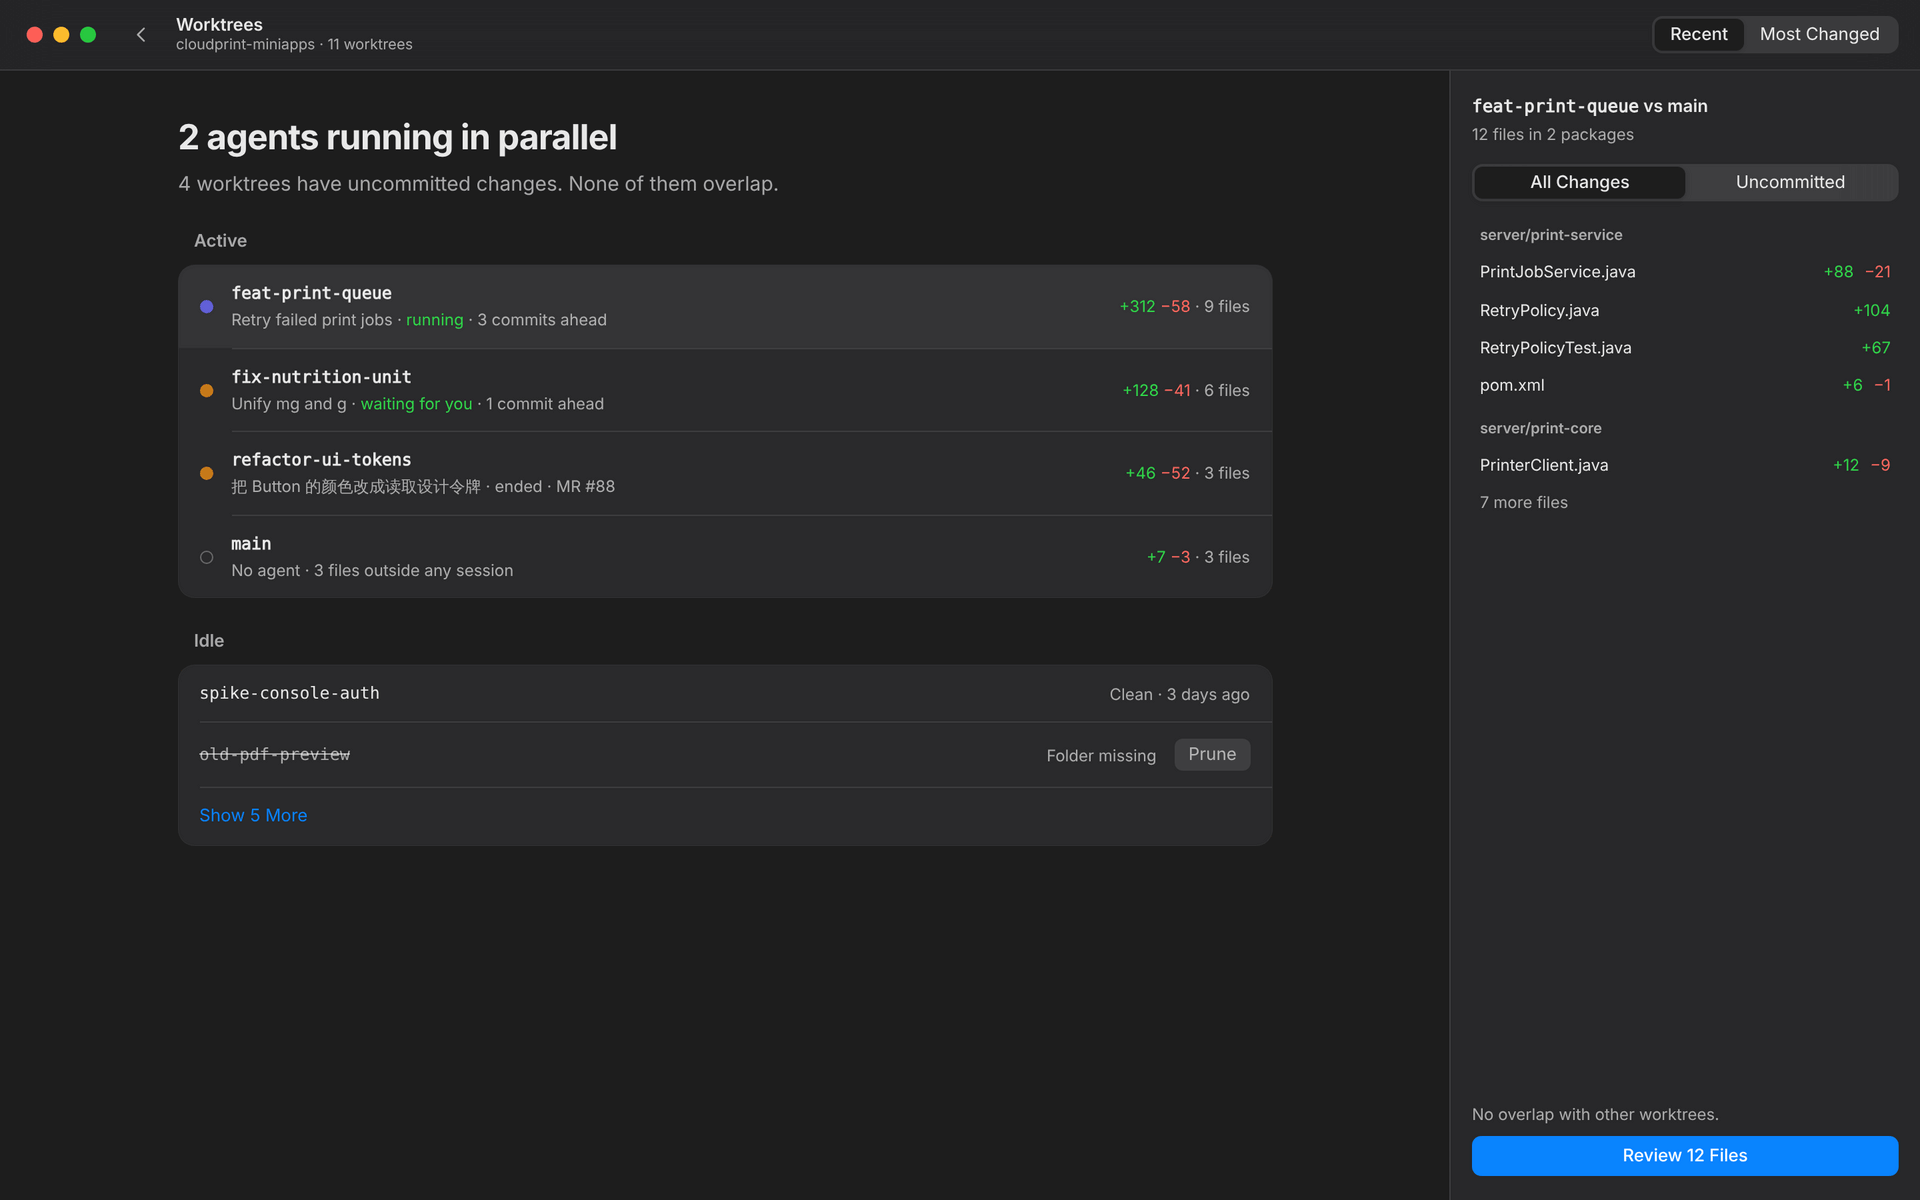
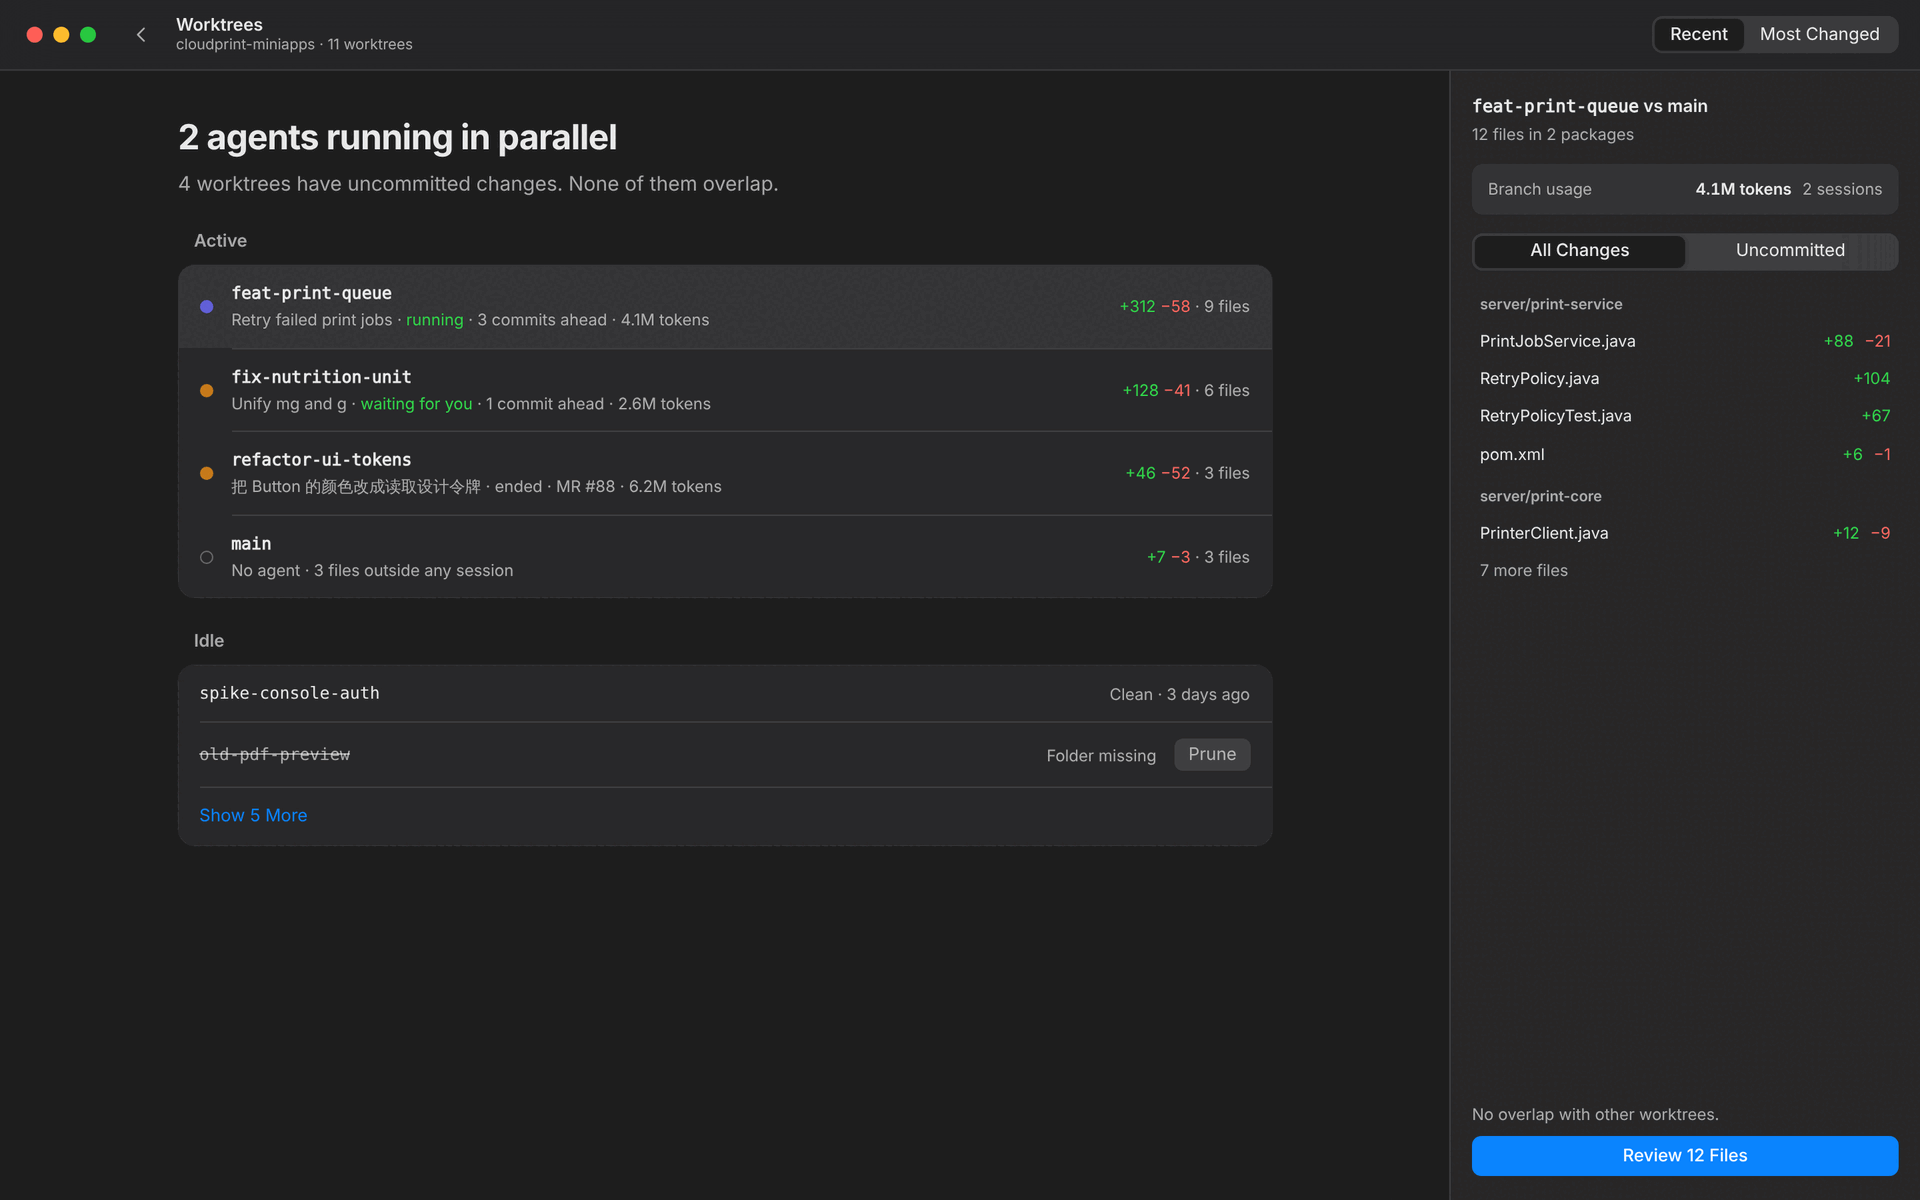
docs: refresh design screenshots and screen spec for Analyze, MR usage and no cost
- README screenshots re-rendered from the updated design canvas, light and dark.
- Interaction spec screen table: brief with Analyze states and branch usage,
  per-branch tokens in Worktrees, tokens only in Usage, new 06 Merge Request board.
- README (en / zh-CN): Analyze, branch tokens in the worktree inspector,
  writing vs review split for MRs.

Claude-Session: https://claude.ai/code/session_01HuiwZwpLFGsFJpVg1pmaN6

diff --git a/README.md b/README.md
@@ -31,12 +31,13 @@ Lectern shows a session in the order it happened. For each turn you see your pro
 While reviewing, you can:
 
 - **Check the impact of a change.** The context panel lists the callers and tests of each changed symbol, and marks callers that the agent did not update. Results come from a local index. For Java, more precise results are available from an optional language server that you enable yourself.
+- **Ask for an analysis.** The brief at the top of a session lists what to check first. It is built from local rules and costs no tokens. Analyze asks the Claude Code or Codex already signed in on your Mac to read the change and point out what's critical. It runs only when you ask, in a sandbox where it can read the change but can't write files or reach other hosts.
 - **Send review notes to the agent.** You write notes on specific lines as you read. Lectern collects them and sends them to the session in one batch, with file paths and line numbers, so the agent can address them in its next turn.
 - **Skip what doesn't need review.** Changes that only affect formatting are collapsed. Files you have marked as reviewed keep that mark.
 
 ## Parallel worktrees
 
-When several agents run at the same time in separate git worktrees, Lectern lists the worktrees in two groups, Active and Idle. Selecting a worktree opens it in the inspector, which compares it with main: the files changed, the number of commits ahead, and whether any of those files are also changed in another worktree.
+When several agents run at the same time in separate git worktrees, Lectern lists the worktrees in two groups, Active and Idle. Selecting a worktree opens it in the inspector, which compares it with main: the files changed, the number of commits ahead, the tokens spent on the branch, and whether any of those files are also changed in another worktree.
 
 <picture>
   <source media="(prefers-color-scheme: dark)" srcset="docs/images/worktrees-dark.png">
@@ -45,7 +46,7 @@ When several agents run at the same time in separate git worktrees, Lectern list
 
 ## Token usage and limits
 
-Lectern counts tokens per project and per merge request. Project totals cover the last 7, 14 or 30 days. An MR's total adds up every session and turn that went into it; branches without an MR yet are counted the same way. Per-session and per-turn numbers remain available as a breakdown. Lectern also shows how much of your Codex and Claude Code usage limits you have used. Claude Code's status line sends its data to Lectern, so its limit windows update in real time.
+Lectern counts tokens per project and per merge request. Project totals cover the last 7, 14 or 30 days. An MR's total adds up every session and turn that went into it; branches without an MR yet are counted the same way. Per-session and per-turn numbers remain available as a breakdown, and an MR's tokens are split into writing and review (Lectern's own analyses). Lectern also shows how much of your Codex and Claude Code usage limits you have used. Claude Code's status line sends its data to Lectern, so its limit windows update in real time.
 
 <picture>
   <source media="(prefers-color-scheme: dark)" srcset="docs/images/usage-dark.png">
